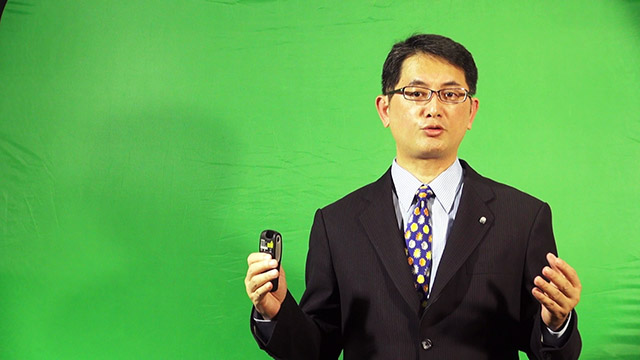
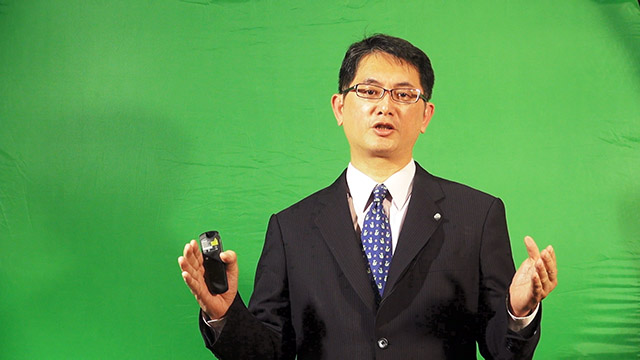
photo change

diff --git a/studio.html b/studio.html
@@ -18,15 +18,11 @@ name: studio
 			</p>
 		</span>
 	</div>
-	<div class="photo-flow col-4">
-		<img src="/img/Soapbox_s.JPG" class="col-3" style="height: 243px">
-		<img src="/img/Soapbox_s.JPG" style="height: 81px">
-		<img src="/img/Soapbox_s.JPG" style="height: 81px">
-		<img src="/img/Soapbox_s.JPG" style="height: 81px">
-		<img src="/img/Soapbox_s.JPG">
-		<img src="/img/Soapbox_s.JPG">
-		<img src="/img/Soapbox_s.JPG">
-		<img src="/img/Soapbox_s.JPG">
+	<div class="photo-flow col-2">
+		<img src="/img/photo/studio_01_s.jpg">
+		<img src="/img/photo/studio_02_s.jpg">
+		<img src="/img/photo/studio_03_s.jpg">
+		<img src="/img/photo/studio_04_s.jpg">
 	</div>
 </div>
 

diff --git a/1.html b/1.html
@@ -3,7 +3,7 @@ layout: home
 ---
 
 <div id="soapbox">
-	<img src="/img/photo/space_00_640.jpg" />
+	<img src="/img/photo/space_00_l.jpg" />
 	<span>
 		分享有溫度的知識<br>
 		向世界溝通創新理念<br>
@@ -21,9 +21,9 @@ layout: home
 	</div>
 	<div class="row photo-grid">
 		<img src="/img/photo/space_01_s.jpg" class="col-xs-6" />
-		<img src="/img/photo/space_02_s.jpg" class="col-xs-6" />
-		<img src="/img/photo/space_03_s.jpg" class="col-xs-6" />
 		<img src="/img/photo/space_04_s.jpg" class="col-xs-6" />
+		<img src="/img/photo/space_02_s.jpg" class="col-xs-6" />
+		<img src="/img/photo/space_05_s.jpg" class="col-xs-6" />
 	</div>
 </div>
 

diff --git a/presentation.html b/presentation.html
@@ -33,8 +33,8 @@ name: presentation
 <div class="page-section">
 	<div class="photo-flow col-2">
 		<img src="/img/photo/presentation_01_s.jpg">
-		<img src="/img/photo/presentation_02_s.jpg">
 		<img src="/img/photo/presentation_03_s.jpg">
+		<img src="/img/photo/presentation_02_s.jpg">
 	</div>
 	<h2>製作方案</h2>
 	<table id="studio-spec-table" class="table table-bordered">
